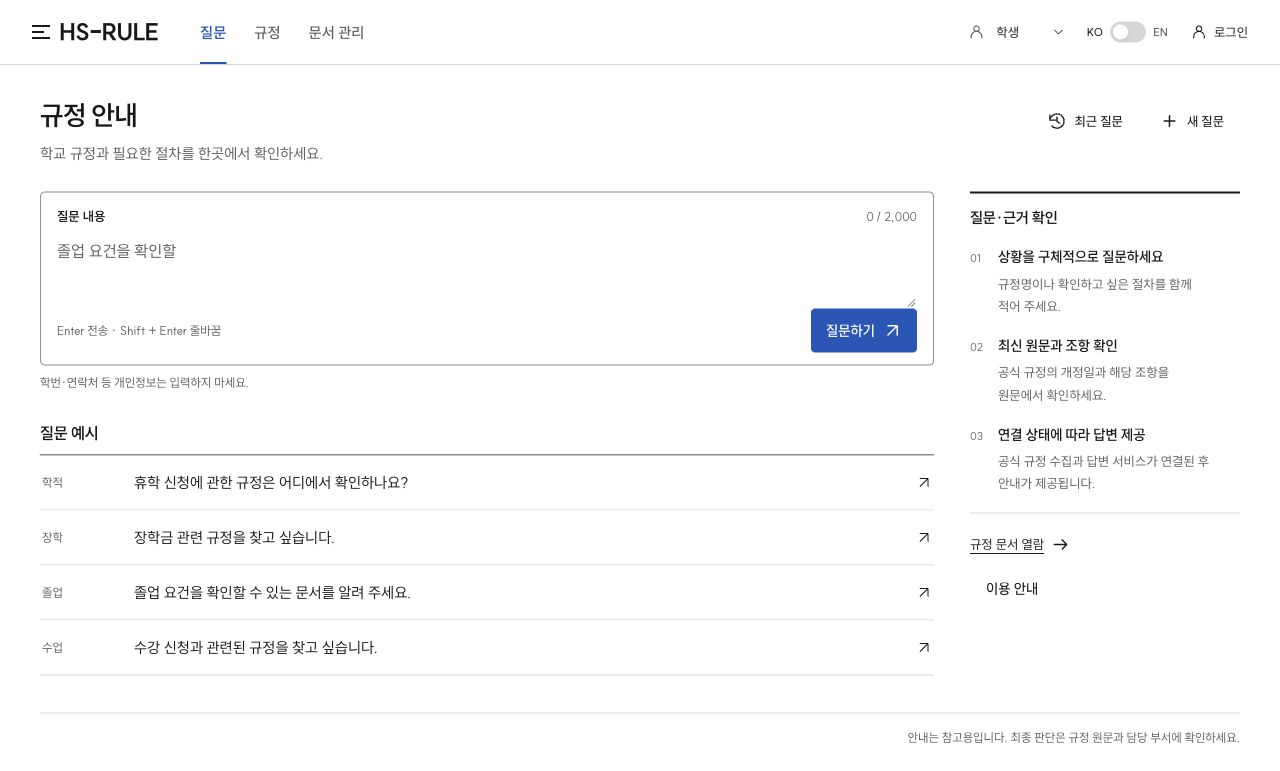
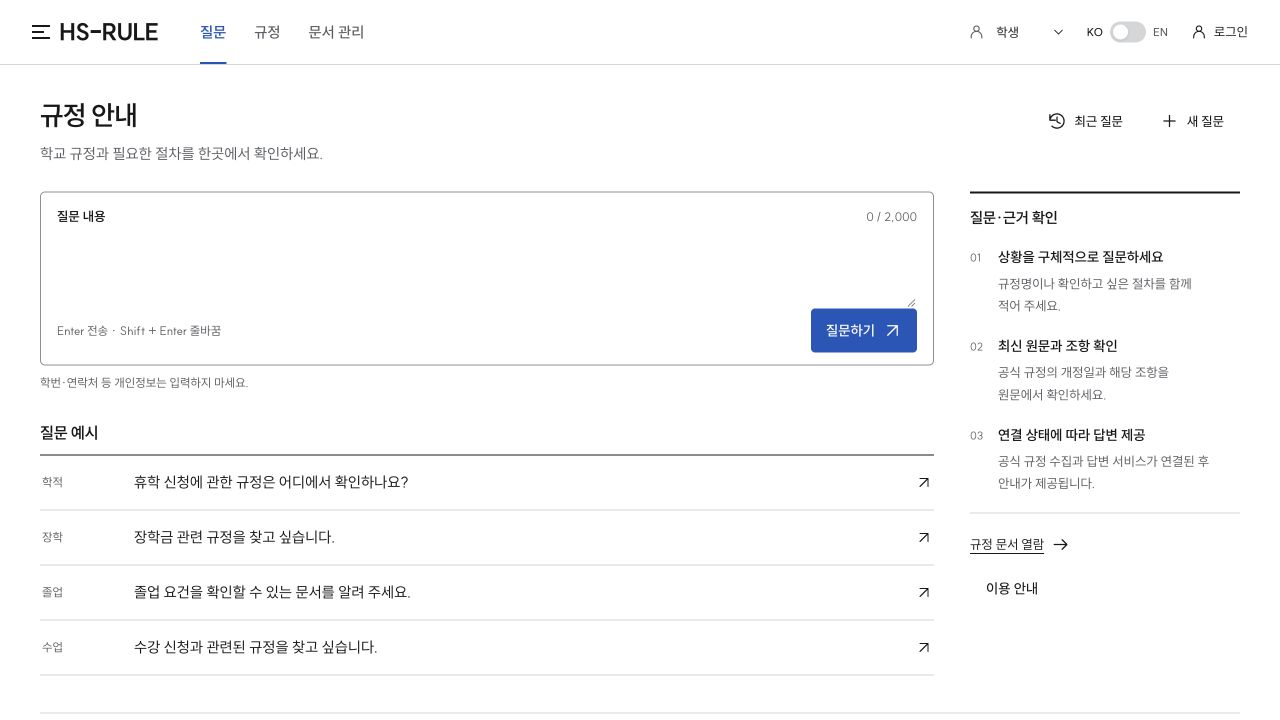
docs: record final animation verification and deployment (#36)

diff --git a/docs/deployment.md b/docs/deployment.md
@@ -50,14 +50,14 @@ Cloudflare 대시보드의 정적 파일 업로드로 배포했고, Custom Domai
 
 ## 공개 화면 피드백 반영 — 2026-11-23
 
-후속 배포 버전은 `9c1660f7`로 시작하며 Ready·100% 상태를 확인했다. [#36](https://github.com/soil0119/HS-RULE/issues/36)의 브라우저 피드백과 예시 타이핑 요청을 반영했다.
+후속 UI 배포 `9c1660f7` 이후 답변 완료 시 예시 재개를 보완했다. 최종 배포 버전은 `ef2dc90b`로 시작하며 Ready·100% 상태를 확인했다. [#36](https://github.com/soil0119/HS-RULE/issues/36)의 브라우저 피드백과 예시 타이핑 요청을 반영했다.
 
 | 변경·검증 | 확인 결과 |
 |---|---|
 | 안내·불필요 문구 | 제목을 ‘규정 안내’로 변경, 학교명 푸터와 예시 보조 문구 삭제. PDF 중심 안내를 공식 규정 원문·개정일·조항 기준으로 수정 |
 | 언어 스위치 | 상단/모바일 메뉴의 한영 스위치, Space 키 전환, 화면 간 선택 유지 확인 |
-| 예시 애니메이션 | 공개 사이트의 placeholder가 길어졌다가 짧아짐을 관찰. 포커스 시 중지, 직접 입력값 유지 확인 |
-| 회귀 검사 | `node design/hs-rule-ui/qa/verify.cjs` 588개 모의 DOM/API 검사 통과. 동작 줄이기의 정적 예시도 이 검사에서 확인 |
+| 예시 애니메이션 | 공개 사이트의 placeholder가 길어졌다가 짧아짐을 관찰. 포커스 시 중지, 직접 입력값 유지 확인. 답변 완료 후 빈 입력창에서 순환 재개는 회귀 검사로 확인 |
+| 회귀 검사 | `node design/hs-rule-ui/qa/verify.cjs` 589개 모의 DOM/API 검사 통과. 동작 줄이기의 정적 예시도 이 검사에서 확인 |
 | HTTPS·자산 | 수정 후 `python3 scripts/check_ui_site.py` 18개 검사 재통과. 실제 공개 응답과 빌드 바이트 일치 |
 | 반응형·폰트 | 한국어 데스크톱, 영어 390×844 화면 확인. 모바일 `scrollWidth=390`, 로컬 폰트 `loaded`, History 줄바꿈 없음 |
 
